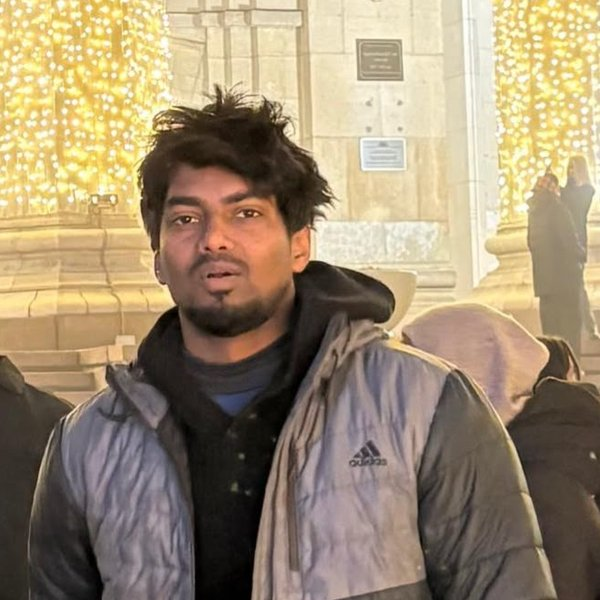
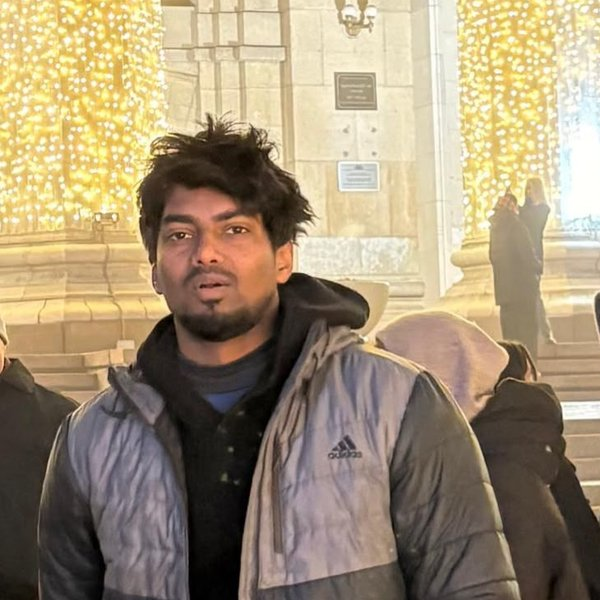
Committees: zoom Raj Saroj's photo out; refresh replaced team photos
- Raj Saroj: a wider square crop, still without other faces in frame
- Team photo URLs carry the file's modification time (?v=...), so browsers fetch a replaced photo
  instead of showing a cached copy

diff --git a/includes/site.php b/includes/site.php
@@ -235,13 +235,19 @@ function day_hours(array $day): string {
     return time_range($day['slots'][0][0], end($day['slots'])[1]);
 }
 
+// A local file's URL with its modification time appended, so browsers fetch a replaced photo instead of a cached copy.
+function asset_url(string $path): string {
+    $file = dirname(__DIR__).'/'.$path;
+    return is_file($file) ? $path.'?v='.filemtime($file) : $path;
+}
+
 function member(array $m, string $variant): string {
     $url = $m['url'] ?? '';
     $link = fn(string $inner, string $class) => $url === '' ? $inner
         : '<a class="'.$class.'" href="'.e($url).'" target="_blank" rel="noopener noreferrer">'.$inner.'<span class="visually-hidden"> (profile, opens in a new tab)</span></a>';
     $org = $m['affiliation'] !== '' ? '<p class="member-org">'.implode('<br>', array_map(fn($line) => e(trim($line)), explode(';', $m['affiliation']))).'</p>' : '';
     $email = $m['email'] !== '' ? '<a class="member-email" href="mailto:'.e($m['email']).'">'.e($m['email']).'</a>' : '';
-    $photo = '<img class="member-photo" src="'.e($m['photo']).'" alt="'.e($m['name']).'" width="400" height="400" loading="lazy" decoding="async">';
+    $photo = '<img class="member-photo" src="'.e(asset_url($m['photo'])).'" alt="'.e($m['name']).'" width="400" height="400" loading="lazy" decoding="async">';
     return '<li class="member member-'.$variant.'">'.($url === '' ? $photo : '<a class="member-photo-link" href="'.e($url).'" target="_blank" rel="noopener noreferrer" tabindex="-1" aria-hidden="true">'.$photo.'</a>')
         .'<div><h3>'.$link(e($m['name']), 'member-link').'</h3><p class="member-role">'.e($m['role']).'</p>'.$org.$email.'</div></li>';
 }
